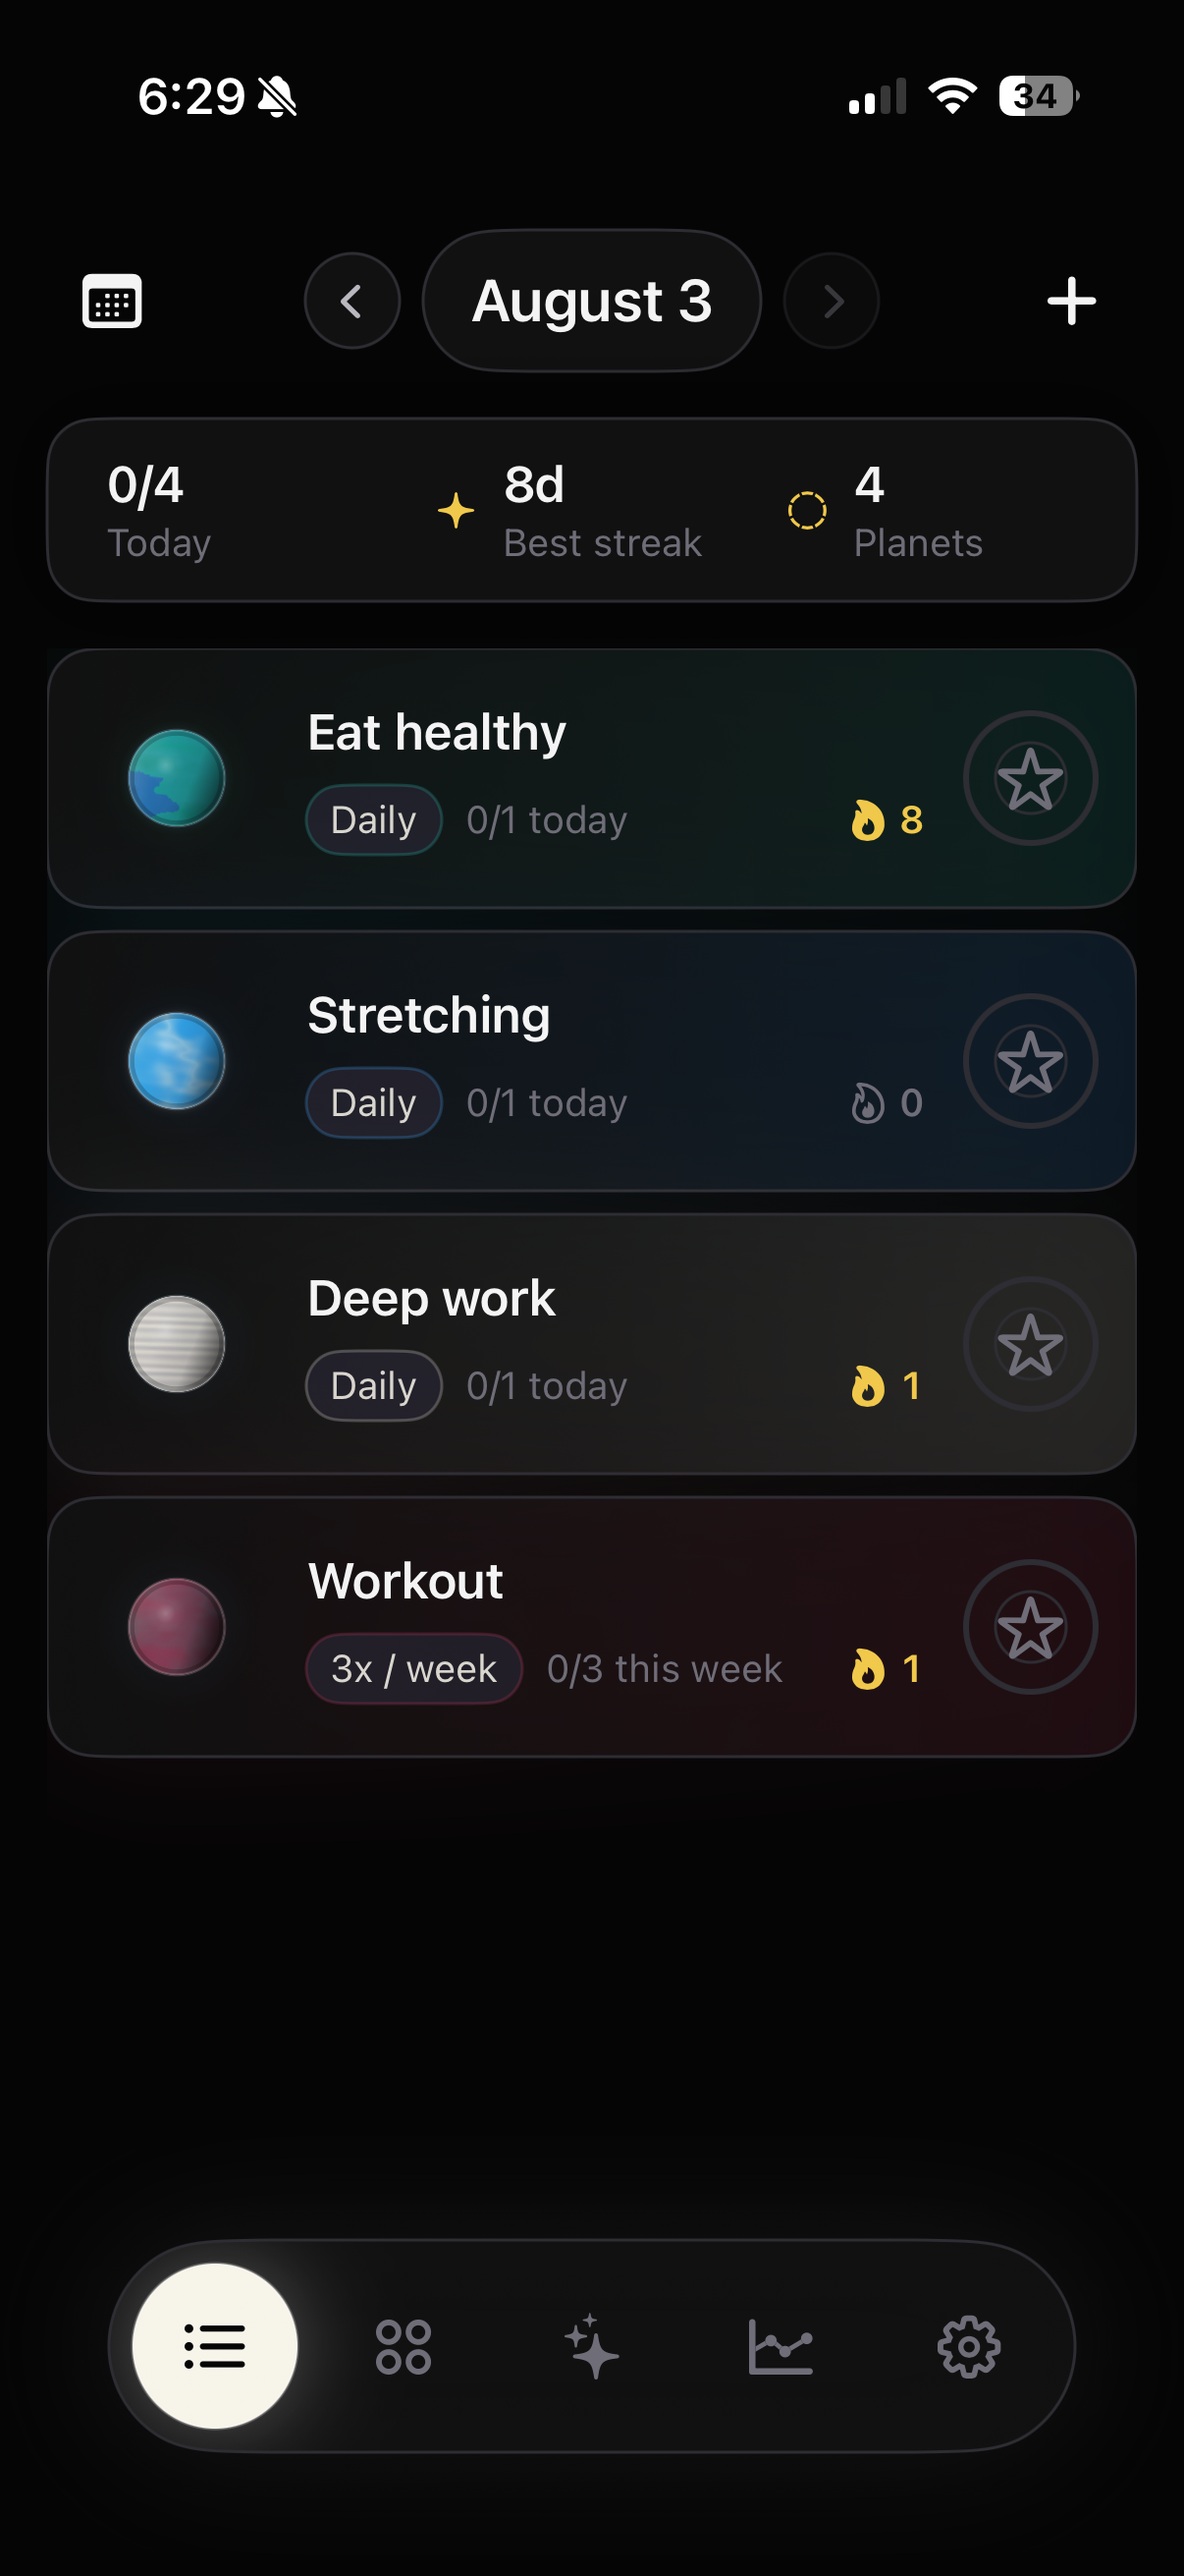
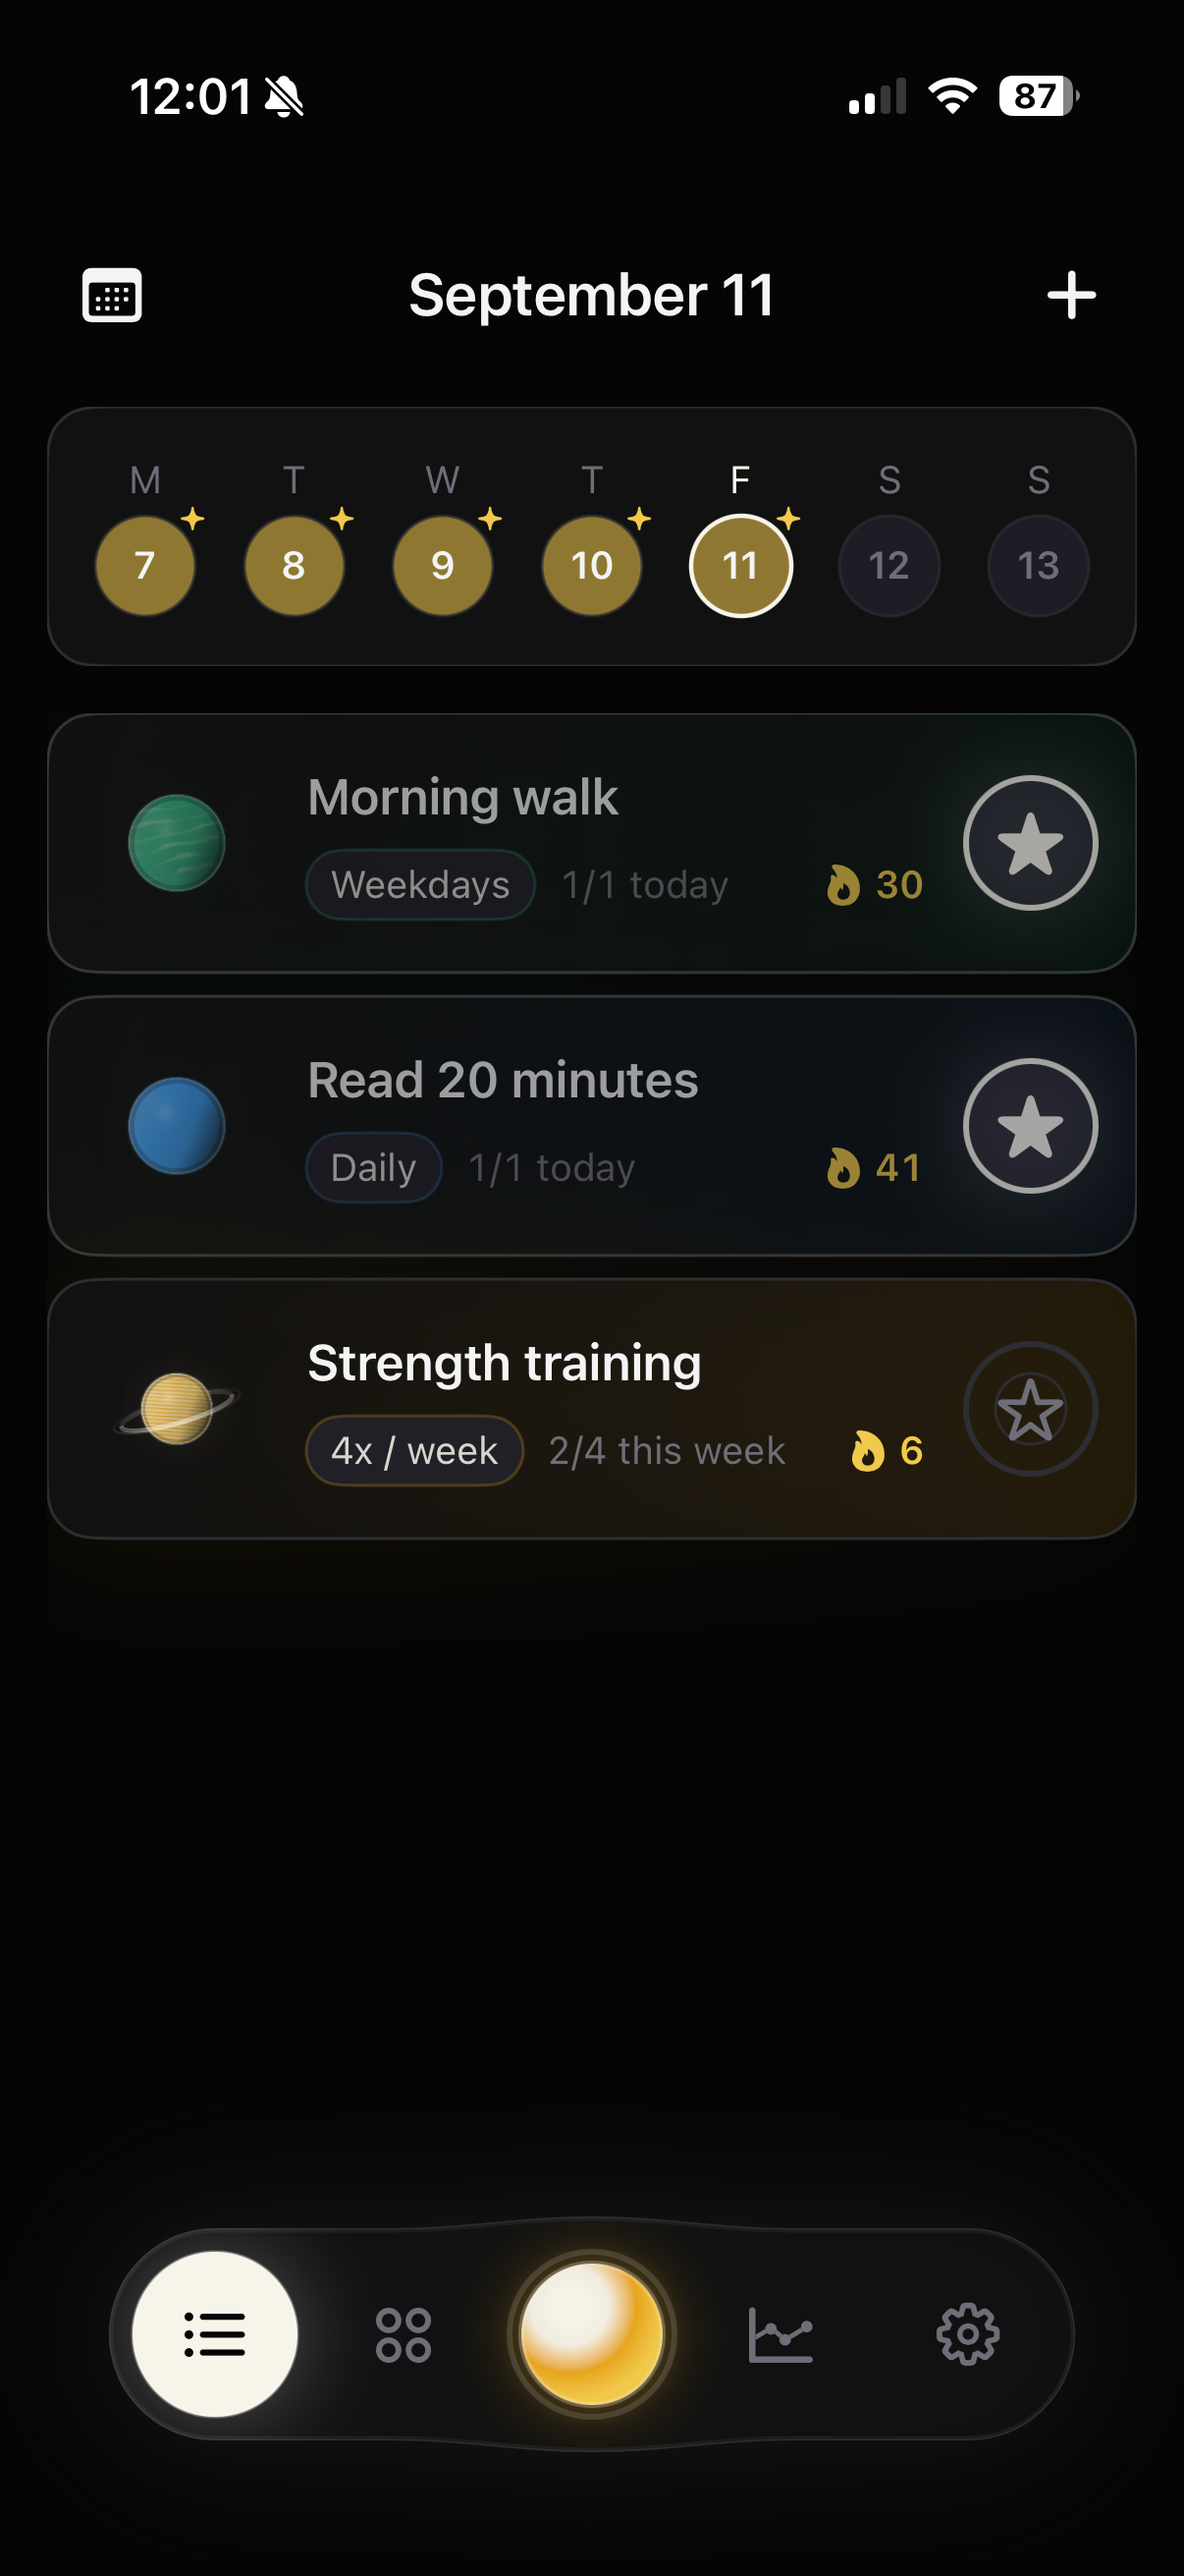
Update the website habit list screenshot

diff --git a/index.html b/index.html
@@ -117,7 +117,7 @@
           <p>Log a habit in one tap, follow flexible daily or weekly schedules, and keep the focus on what you did today.</p>
         </div>
         <div class="phone-stage phone-stage-habits">
-          <img src="./assets/habits.png" alt="Solyx habit list with daily and weekly habits" width="1206" height="2622" loading="lazy" decoding="async">
+          <img src="./assets/habits.png" alt="Solyx habit list showing Morning walk, Read 20 minutes, Strength training, and their current streaks" width="1206" height="2622" loading="lazy" decoding="async">
         </div>
       </div>
     </section>
